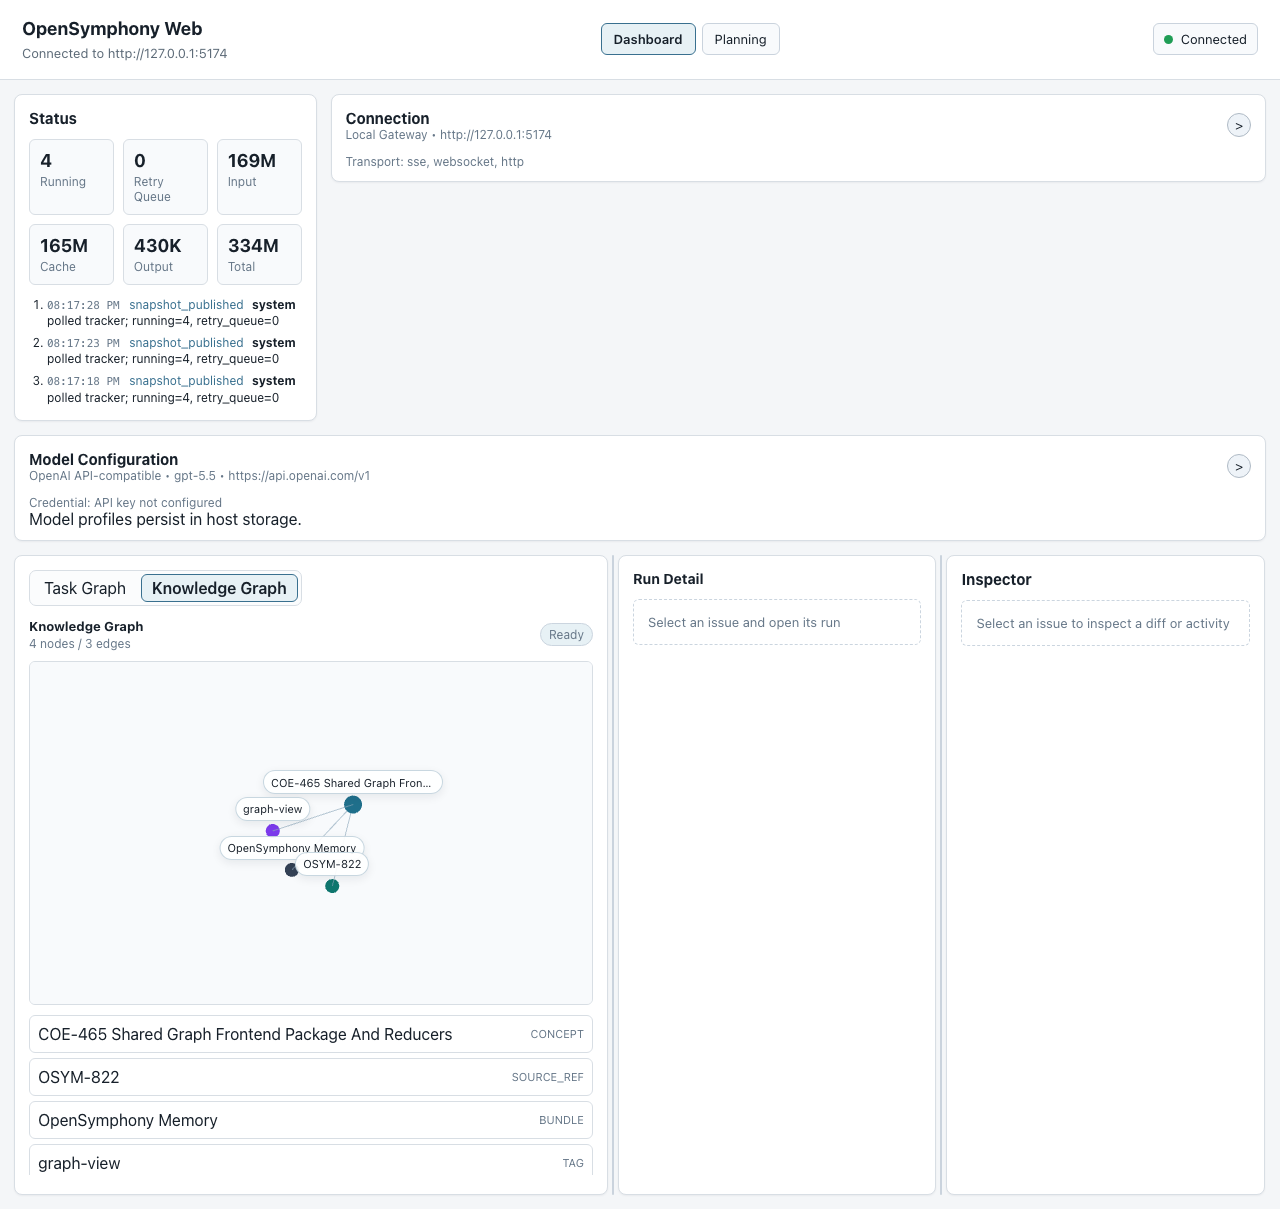
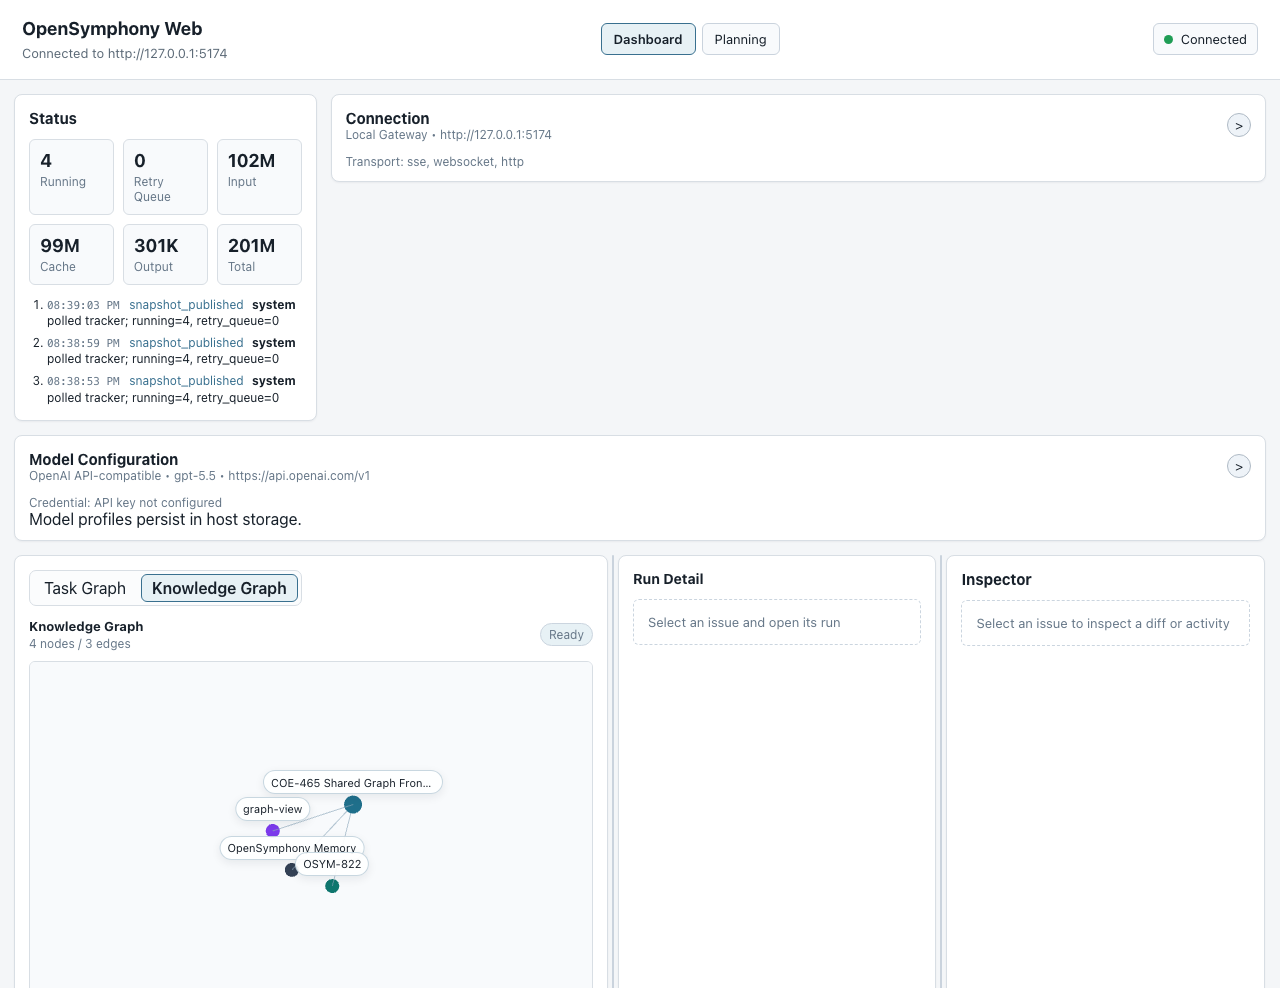
fix(graph): package layout worker and resize handling

diff --git a/packages/ui-core/src/app-shell.ts b/packages/ui-core/src/app-shell.ts
@@ -285,6 +285,7 @@ class OpenSymphonyApp implements OpenSymphonyAppHandle {
   private graphLayoutAdapter: GraphLayoutAdapter = createGraphLayoutAdapter(() => null);
   private graphLayoutRun = 0;
   private knowledgeGraphView: KnowledgeGraphViewState = { scale: 1, dx: 0, dy: 0 };
+  private knowledgeGraphLayoutSize: { width: number; height: number } | null = null;
 
   constructor(options: OpenSymphonyAppOptions) {
     this.options = options;
@@ -894,8 +895,22 @@ class OpenSymphonyApp implements OpenSymphonyAppHandle {
     const root = this.options.root.querySelector<HTMLElement>("[data-testid='knowledge-graph-renderer']");
     if (!root) return;
     const snapshot = visibleGraphSnapshot(this.state.knowledgeGraph);
+    const stageSize = measureKnowledgeGraphStage(root);
+    if (
+      snapshot
+      && this.state.knowledgeGraphLayout
+      && this.state.knowledgeGraph.layoutStatus === "ready"
+      && this.knowledgeGraphLayoutSize
+      && stageSizeChanged(this.knowledgeGraphLayoutSize, stageSize)
+    ) {
+      this.state.knowledgeGraphLayout = null;
+      this.state.knowledgeGraph = graphReducer(this.state.knowledgeGraph, { type: "LAYOUT_STATUS_SET", status: "idle" });
+      this.knowledgeGraphLayoutSize = null;
+      this.scheduleKnowledgeGraphLayout(stageSize);
+      return;
+    }
     if (snapshot && !this.state.knowledgeGraphLayout && this.state.knowledgeGraph.layoutStatus === "idle") {
-      this.scheduleKnowledgeGraphLayout();
+      this.scheduleKnowledgeGraphLayout(stageSize);
     }
     mountKnowledgeGraphRenderer(root, {
       snapshot,
@@ -924,15 +939,12 @@ class OpenSymphonyApp implements OpenSymphonyAppHandle {
     });
   }
 
-  private scheduleKnowledgeGraphLayout(): void {
+  private scheduleKnowledgeGraphLayout(size = measureKnowledgeGraphStage(this.options.root)): void {
     const snapshot = visibleGraphSnapshot(this.state.knowledgeGraph);
     if (!snapshot || this.state.knowledgeGraph.layoutStatus === "loading") return;
     const run = ++this.graphLayoutRun;
     this.state.knowledgeGraph = graphReducer(this.state.knowledgeGraph, { type: "LAYOUT_STATUS_SET", status: "loading" });
-    const stage = this.options.root.querySelector<HTMLElement>("[data-kg-stage]");
-    const rect = stage?.getBoundingClientRect();
-    const width = Math.max(360, Math.floor(rect?.width || 720));
-    const height = Math.max(260, Math.floor(rect?.height || 420));
+    const { width, height } = size;
     void this.graphLayoutAdapter.layout(snapshot, {
       kind: graphLayoutKindForMode(this.state.knowledgeGraph.mode),
       focusedNodeId: this.state.knowledgeGraph.focusedNodeId,
@@ -941,6 +953,7 @@ class OpenSymphonyApp implements OpenSymphonyAppHandle {
     }).then((layout) => {
       if (this.destroyed || run !== this.graphLayoutRun) return;
       this.state.knowledgeGraphLayout = layout;
+      this.knowledgeGraphLayoutSize = { width, height };
       this.state.knowledgeGraph = graphReducer(this.state.knowledgeGraph, { type: "LAYOUT_STATUS_SET", status: "ready" });
       this.render();
     }).catch((error) => {
@@ -3972,6 +3985,22 @@ function stateToneForTaskNode(node: TaskGraphNode): string {
   if (value.includes("todo")) return "todo";
   if (value.includes("idle")) return "idle";
   return "neutral";
+}
+
+function measureKnowledgeGraphStage(root: ParentNode): { width: number; height: number } {
+  const stage = root.querySelector<HTMLElement>("[data-kg-stage]");
+  const rect = stage?.getBoundingClientRect();
+  return {
+    width: Math.max(360, Math.floor(rect?.width || 720)),
+    height: Math.max(260, Math.floor(rect?.height || 420)),
+  };
+}
+
+function stageSizeChanged(
+  previous: { width: number; height: number },
+  next: { width: number; height: number },
+): boolean {
+  return Math.abs(previous.width - next.width) > 32 || Math.abs(previous.height - next.height) > 32;
 }
 
 function appShellStyles(): string {

diff --git a/packages/graph/__tests__/graph.test.ts b/packages/graph/__tests__/graph.test.ts
@@ -240,6 +240,7 @@ describe("@opensymphony/graph", () => {
 
   it("computes deterministic graph layouts for every graph mode", () => {
     const layouts = ["atlas", "bundle", "neighborhood", "timeline"] as const;
+    const byMode = new Map<(typeof layouts)[number], ReturnType<typeof computeGraphLayout>>();
     for (const mode of layouts) {
       const layout = computeGraphLayout(fixtureGraphSnapshot, {
         kind: graphLayoutKindForMode(mode),
@@ -247,15 +248,29 @@ describe("@opensymphony/graph", () => {
         width: 640,
         height: 360,
       });
-      expect(layout.nodes.map((node) => node.nodeId)).toEqual([
+      byMode.set(mode, layout);
+      expect(new Set(layout.nodes.map((node) => node.nodeId))).toEqual(new Set([
         "bundle:local-default",
         "concept:coe-465",
         "source:osym-822",
         "tag:graph-view",
-      ]);
+      ]));
       expect(layout.edges).toHaveLength(3);
       expect(layout.nodes.every((node) => node.x >= 0 && node.x <= 640 && node.y >= 0 && node.y <= 360)).toBe(true);
     }
+    const bundle = nodeById(byMode.get("bundle")!, "bundle:local-default");
+    const concept = nodeById(byMode.get("bundle")!, "concept:coe-465");
+    const tag = nodeById(byMode.get("bundle")!, "tag:graph-view");
+    expect(bundle.x).toBeLessThan(concept.x);
+    expect(concept.x).toBeLessThan(tag.x);
+    const focused = nodeById(byMode.get("neighborhood")!, "concept:coe-465");
+    expect(focused.x).toBeCloseTo(320);
+    expect(focused.y).toBeCloseTo(180);
+    const timeline = byMode.get("timeline")!;
+    expect(new Set(timeline.nodes.map((node) => node.x)).size).toBe(fixtureGraphSnapshot.nodes.length);
+    const timelineConcept = nodeById(timeline, "concept:coe-465");
+    const timelineTag = nodeById(timeline, "tag:graph-view");
+    expect(timelineConcept.y).not.toBe(timelineTag.y);
   });
 
   it("uses a worker adapter when a worker is available", async () => {
@@ -296,3 +311,12 @@ describe("@opensymphony/graph", () => {
     expect(graphReset.filters).not.toBe(initialGraphFilters);
   });
 });
+
+function nodeById(
+  layout: ReturnType<typeof computeGraphLayout>,
+  nodeId: string,
+): ReturnType<typeof computeGraphLayout>["nodes"][number] {
+  const node = layout.nodes.find((candidate) => candidate.nodeId === nodeId);
+  if (!node) throw new Error(`Missing layout node ${nodeId}`);
+  return node;
+}

diff --git a/packages/ui-core/src/knowledge-graph-renderer.ts b/packages/ui-core/src/knowledge-graph-renderer.ts
@@ -68,12 +68,10 @@ export function mountKnowledgeGraphRenderer(
     px: 0,
     py: 0,
   };
+  let canvasSize = { width: 0, height: 0, cssWidth: 0, cssHeight: 0 };
   const draw = () => {
     const viewport = canvasViewport(stage);
-    canvas.width = Math.floor(viewport.width * viewport.ratio);
-    canvas.height = Math.floor(viewport.height * viewport.ratio);
-    canvas.style.width = `${viewport.width}px`;
-    canvas.style.height = `${viewport.height}px`;
+    canvasSize = resizeCanvasIfNeeded(canvas, viewport, canvasSize);
     if (!drawThree(canvas, viewport, options.layout!, options.selectedNodeIds, view)) {
       drawCanvas2d(canvas, options.layout!, options.selectedNodeIds, view);
     }
@@ -144,6 +142,28 @@ function syncViewState(
   target.scale = view.scale;
   target.dx = view.dx;
   target.dy = view.dy;
+}
+
+function resizeCanvasIfNeeded(
+  canvas: HTMLCanvasElement,
+  viewport: { width: number; height: number; ratio: number },
+  previous: { width: number; height: number; cssWidth: number; cssHeight: number },
+): { width: number; height: number; cssWidth: number; cssHeight: number } {
+  const width = Math.floor(viewport.width * viewport.ratio);
+  const height = Math.floor(viewport.height * viewport.ratio);
+  if (
+    previous.width === width
+    && previous.height === height
+    && previous.cssWidth === viewport.width
+    && previous.cssHeight === viewport.height
+  ) {
+    return previous;
+  }
+  canvas.width = width;
+  canvas.height = height;
+  canvas.style.width = `${viewport.width}px`;
+  canvas.style.height = `${viewport.height}px`;
+  return { width, height, cssWidth: viewport.width, cssHeight: viewport.height };
 }
 
 function renderStatus(status: LayoutStatus, error: string | null): string {

diff --git a/packages/graph/src/index.ts b/packages/graph/src/index.ts
@@ -577,20 +577,7 @@ function normalizeFilters(filters: GraphFilters): GraphFilters {
 }
 
 function defaultGraphLayoutWorkerFactory(): Worker | null {
-  if (typeof Worker === "undefined" || typeof URL === "undefined") return null;
-  try {
-    return new Worker(new URL("./layout-worker.js", graphWorkerBaseUrl()).href, { type: "module" });
-  } catch {
-    return null;
-  }
-}
-
-function graphWorkerBaseUrl(): string {
-  if (typeof document !== "undefined") {
-    const currentScript = document.currentScript;
-    if (currentScript instanceof HTMLScriptElement && currentScript.src) return currentScript.src;
-  }
-  return globalThis.location?.href ?? "http://localhost/";
+  return null;
 }
 
 function forceLayout(
@@ -765,7 +752,12 @@ function groupBy<T>(items: readonly T[], key: (item: T) => string): Map<string, 
   const grouped = new Map<string, T[]>();
   for (const item of items) {
     const bucket = key(item);
-    grouped.set(bucket, [...(grouped.get(bucket) ?? []), item]);
+    const values = grouped.get(bucket);
+    if (values) {
+      values.push(item);
+    } else {
+      grouped.set(bucket, [item]);
+    }
   }
   return grouped;
 }

diff --git a/packages/ui-core/src/graph-layout-worker-factory.ts b/packages/ui-core/src/graph-layout-worker-factory.ts
@@ -1,12 +1,6 @@
 import { createGraphLayoutAdapter, type GraphLayoutAdapter } from "@opensymphony/graph";
+import { createGraphLayoutWorker } from "@opensymphony/graph/worker-factory";
 
 export function createBrowserGraphLayoutAdapter(): GraphLayoutAdapter {
-  return createGraphLayoutAdapter(() => {
-    if (typeof Worker === "undefined") return null;
-    try {
-      return new Worker(new URL("../../graph/src/layout-worker.ts", import.meta.url), { type: "module" });
-    } catch {
-      return null;
-    }
-  });
+  return createGraphLayoutAdapter(createGraphLayoutWorker);
 }

diff --git a/packages/graph/src/worker-factory.ts b/packages/graph/src/worker-factory.ts
@@ -1,0 +1,8 @@
+export function createGraphLayoutWorker(): Worker | null {
+  if (typeof Worker === "undefined") return null;
+  try {
+    return new Worker(new URL("./layout-worker.js", import.meta.url), { type: "module" });
+  } catch {
+    return null;
+  }
+}
